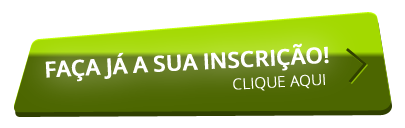
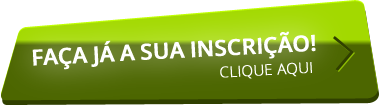
merge

diff --git a/css/style.css b/css/style.css
@@ -1,0 +1,224 @@
+html{
+    overflow-x: hidden;
+}
+
+body{
+    background: url("../img/bg.jpg") no-repeat;
+    background-size: cover;
+    color: #fff;
+    font-family: 'Open Sans';
+    margin: 0;
+}
+
+a{
+    color: #fff;
+    text-decoration: none;
+}
+
+p{
+    margin: 0;
+    line-height: 1;
+}
+
+header,
+main,
+div.footer_center{
+    width: 1024px;
+    margin: 0 auto;
+    display: block;
+}
+
+header{
+    margin-top: 50px;
+}
+
+header h1{
+    background: url("../img/frontinsampa.png") no-repeat;
+    width: 405px;
+    height: 303px;
+    text-indent: -10000px;
+    margin: 0;
+}
+
+main > a{
+    background: url("../img/inscricoes.png") no-repeat;
+    width: 380px;
+    height: 105px;
+    display: block;
+    text-indent: -10000px;
+}
+
+p.date{
+    width: 380px;
+    display: block;
+    border-bottom: 4px solid #4f4f4f;
+    text-align: center;
+    font-size: 33px;
+    text-transform: uppercase;
+    padding-bottom: 15px;
+}
+
+p.date span.date-year{
+    font-size: 55px;
+    font-weight: bold;
+}
+
+p.date span.date-year:after,
+section.featured *:after{
+    clear: both;
+}
+
+p.date span.date-year:after,
+p.date span.date-year:before,
+section.featured *:after,
+section.featured *:before{
+    content: ""; display: table;
+}
+
+section.featured{
+    width: 380px;
+    border-bottom: 4px solid #4f4f4f;
+    margin: 25px 0;
+    padding-bottom: 15px;
+}
+
+section.featured *{
+    width: 380px;
+    display: block;
+    text-align: center;
+}
+
+main .addthis_toolbox{
+    float: right;
+    margin-top: 70px;
+}
+
+section.featured p:first-child{
+    font-size: 22px;
+    text-transform: uppercase;
+}
+
+section.featured h2,
+article.others h2{
+    font-size: 33px;
+    text-transform: uppercase;
+    margin: 5px 0;
+}
+
+section.featured p,
+section.featured a,
+article.others p{
+    font-size: 20px;
+}
+
+section.featured > img{
+    height: 690px;
+    left: 551px;
+    position: absolute;
+    top: 85px;
+    width: 762px;
+    z-index: -1;
+}
+
+article.others{
+    border-top: 2px solid #660000;
+    background: url("../img/reinaldo-ferraz.png") no-repeat 100px 10px;
+    height: 219px;
+    padding-left: 350px;
+    margin: 50px 0;
+}
+
+article.others h2{
+    margin-top: 100px;
+}
+
+footer{
+    background: url("../img/bg-footer2.png") repeat-x scroll center top / cover transparent;
+    height: 548px;
+    width: 100%;
+}
+
+footer div.info_event{
+    width: 515px;
+    background: url("../img/arrow.png") no-repeat right;
+    text-transform: uppercase;
+    text-align: right;
+    padding-right: 70px;
+    float: left;
+}
+
+footer div.info_event strong{
+    font-size: 38px;
+}
+
+footer div.info_event p,
+footer div.footer_center > a{
+    font-size: 28px;
+    color: #e3d3d3;
+}
+
+div.footer_center{
+    text-align: center;
+    padding: 85px 0;
+}
+
+footer div.footer_center > a{
+    float: left;
+    text-decoration: underline;
+    margin-top: 20px;
+    margin-left: 20px;
+}
+
+footer div.footer_center div.social{
+    display: block;
+    float: left;
+    margin: 0 auto;
+    text-align: center;
+    width: 100%;
+    margin-top: 135px;
+}
+
+footer div.footer_center div.social div.links,
+footer div.footer_center div.social div.likes{
+    width: 340px;
+    display: inline-block;
+}
+
+footer div.footer_center div.social div.links{
+    margin-left: 35px;
+}
+
+div.links a{
+    text-indent: -100000px;
+    display: block;
+    float: left;
+    margin-left: 28px;
+}
+
+div.links a.facebook{
+    background: url("../img/facebook-frontinsampa.png") no-repeat;
+    width: 138px;
+    height: 36px;
+}
+
+div.links a.twitter{
+    background: url("../img/twitter-frontinsampa.png") no-repeat;
+    width: 118px;
+    height: 36px;
+}
+
+footer div.footer_center p.design_info{
+    float: left;
+    margin-top: 95px;
+    width: 100%;
+    font-size: 15px;
+}
+
+.addthis_toolbox *{
+    float: left !important;
+}
+
+.addthis_button_tweet{
+    width: 120px;
+    margin-left: 20px;
+}

diff --git a/index.html b/index.html
@@ -8,12 +8,19 @@
 	<meta itemprop="image" property="og:image" content="">
 	<meta itemprop="startDate" content="2013-11-14">
 	<meta itemprop="endDate" content="2013-11-14">
+		
+	<link href='http://fonts.googleapis.com/css?family=Open+Sans:400,700italic,800,700,600italic,600,400italic,300italic,300,800italic' rel='stylesheet' type='text/css'>
+
+	<link rel="stylesheet" type="text/css" href="./css/style.css">
+		
+	<script src="http://s7.addthis.com/js/250/addthis_widget.js#pubid=xa-4e4d4fa27f4e70bd"></script>
 	
 </head>
 <body>
 	<header role="banner">
 		<h1>FrontInSampa - 14 de setembro de 2013</h1>
 	</header>
+	
 	<main role="main">
 		<p class="date">14 de setembro <span class="date-year">2013</span></p>
 		<section class="featured">
@@ -22,7 +29,16 @@
 			<p>Developer Relations W3C</p>
 			<a href="http://lea.verou.me/" rel="external">lea.verou.me</a>
 			<img src="img/lea-verou.png" alt="Lea Verou" />
+			
 		</section>
+		<!-- AddThis Button BEGIN -->
+			<span class="addthis_toolbox addthis_default_style ">
+			<a class="addthis_button_tweet"></a>
+			<!-- Place this tag where you want the +1 button to render. -->
+			<div class="g-plusone" data-size="medium" data-href="http://localhost/frontinsampa2013-master/"></div>
+			<a class="addthis_button_facebook_like" ></a>
+			</span>
+			<!-- AddThis Button END -->
 		
 		<a href="http://www.eventick.com.br/frontinsampa2013" title="Vai perder? Faça já sua inscrição" rel="external">Faça já sua inscrição!</a>
 
@@ -32,15 +48,43 @@
 		</article>
 	</main>
 	<footer role="contentinfo">
-		<strong>Quer patrocinar ou saber mais do evento?</strong>
-		<a href="mailto:frontinsampa@gmail.com" class="contact">frontinsampa@gmail.com</a>
-		<div class="social">
-			<div class="likes"></div>
-			<div class="links">
-				<a href="http://facebook.com/frontinsampa" class="facebook" rel="external">Facebook</a>
-				<a href="http://twitter.com/frontinsp" class="twitter" rel="external">Twitter</a>
+		<div class="footer_center">
+			<div class="info_event">
+				<strong>Quer patrocinar</strong>
+				<p>ou saber mais do evento?</p>
 			</div>
+			
+			<a href="mailto:frontinsampa@gmail.com" class="contact">frontinsampa@gmail.com</a>
+			<div class="social">
+				<div class="likes">
+					<!-- AddThis Button BEGIN -->
+					<span class="addthis_toolbox addthis_default_style ">
+					<a class="addthis_button_tweet"></a>
+					<!-- Place this tag where you want the +1 button to render. -->
+					<div class="g-plusone" data-size="medium" data-href="http://localhost/frontinsampa2013-master/"></div>
+					<a class="addthis_button_facebook_like" ></a>
+					</span>
+					<!-- AddThis Button END -->
+				</div>
+				<div class="links">
+					<a href="http://facebook.com/frontinsampa" class="facebook" rel="external">Facebook</a>
+					<a href="http://twitter.com/frontinsp" class="twitter" rel="external">Twitter</a>
+				</div>
+			</div>
+			
+			<p class="design_info">Design Diogo Rodrigues / Lado Design</p>
 		</div>
 	</footer>
+	
+	<!-- Place this tag after the last +1 button tag. -->
+<script type="text/javascript">
+  window.___gcfg = {lang: 'pt-BR'};
+
+  (function() {
+    var po = document.createElement('script'); po.type = 'text/javascript'; po.async = true;
+    po.src = 'https://apis.google.com/js/plusone.js';
+    var s = document.getElementsByTagName('script')[0]; s.parentNode.insertBefore(po, s);
+  })();
+</script>
 </body>
 </html>
